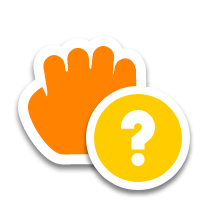
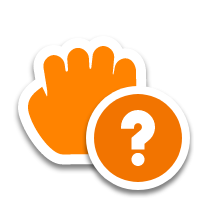
feat: Use orange for dnd-ask

Changed region(s): [[0.45, 0.45, 0.93, 0.93]]

diff --git a/CHANGELOG.md b/CHANGELOG.md
@@ -7,12 +7,16 @@ and this project adheres to [Semantic Versioning](https://semver.org/spec/v2.0.0
 
 ## [unreleased]
 
+### Added
+
+- Use green for copy
+- Simplify move emblem
+- Simplify link emblem
+- Use orange for dnd-ask
+
 ### Changed
 
 - chore: Removed default hotspots assignments from `build.toml`
-- fix: Use green for copy
-- fix: Simplify move emblem
-- fix: Simplify link emblem
 - chore: Symlink `dnd-move` with `grabbing` cursor
 
 ## [Bibata v2.0.2] - 10 October 2022
